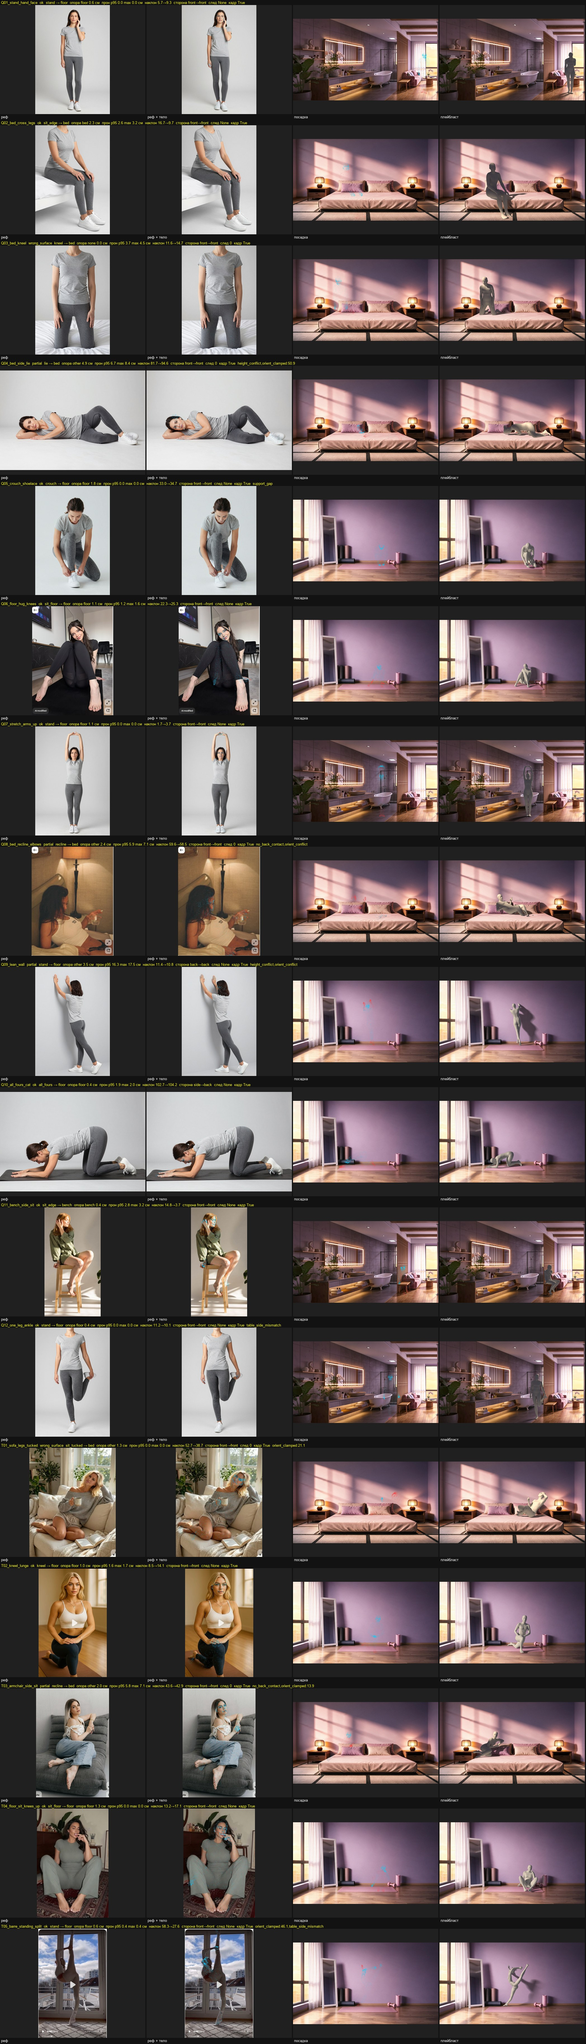
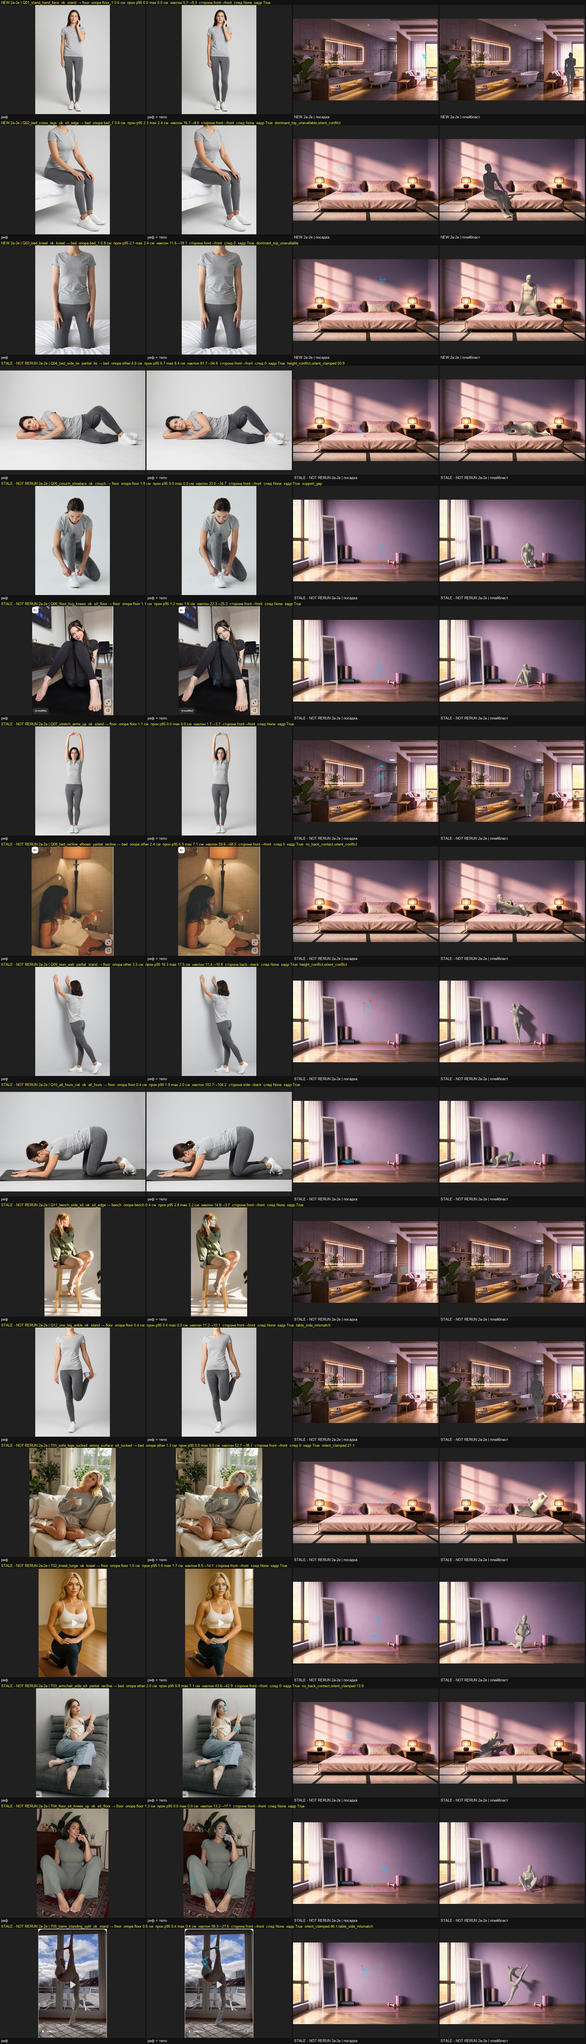
3D-A 09.11c: isolated prompt worker, Blender env, partial geometry evidence
17-pose runner stopped at 30 min: Q01-Q03 fresh ok, 14 explicitly stale. Real pack checks exposed missing httpx/Pillow env; fixed without installs, runtime still under verification.

diff --git a/tools/scene3d/test_pack_cli.py b/tools/scene3d/test_pack_cli.py
@@ -314,7 +314,7 @@ def test_real_step9_prompt_generator_without_table(tmp_path, monkeypatch):
     monkeypatch.setattr(pose_round, "prompts", lambda: pytest.fail("must not read the 17-pose table"))
     cfg["prompt_context_by_location"] = {"room": {"anchor": "the bed reaches her knees"}}
     fit = {"shot_spec": {"pose_class": "kneel", "target_object": "bed", "secondary_contacts": []}}
-    text = cli.prompt_for(Profile(), cfg, fit)
+    text = cli.prompt_direct(Profile(), cfg, fit)
     assert "She kneels" in text
     assert "<Video 1>" in text
     assert "\nThe lighting is preserved unchanged throughout.\n" in text
@@ -322,7 +322,27 @@ def test_real_step9_prompt_generator_without_table(tmp_path, monkeypatch):
     assert "studio" not in text.lower()
     assert "locked-off" in text
     with pytest.raises(ValueError, match="scale anchor missing"):
-        cli.prompt_for(Profile(), config(tmp_path), fit)
+        cli.prompt_direct(Profile(), config(tmp_path), fit)
+
+
+def test_prompt_subprocess_uses_isolated_farm_python(tmp_path, monkeypatch):
+    cfg = config(tmp_path)
+    def run(command, stage, **kwargs):
+        assert command[0] == cfg["python"]
+        assert command[1] == "-I"
+        assert "--prompt-worker" in command
+        request = cli.read_json(command[command.index("--request") + 1])
+        assert request["profile_data"]["loc_id"] == "room"
+        cli.save_json(command[command.index("--output") + 1], {"status": "ok", "h3_prompt": "existing-generator"})
+    monkeypatch.setattr(cli, "run_stage", run)
+    assert cli.prompt_for(Profile(), cfg, {"shot_spec": {}}) == "existing-generator"
+
+
+def test_real_isolated_prompt_roundtrip(tmp_path):
+    cfg = config(tmp_path)
+    cfg["prompt_context_by_location"] = {"room": {"anchor": "the bed reaches her knees"}}
+    fit = {"shot_spec": {"pose_class": "kneel", "target_object": "bed", "secondary_contacts": []}}
+    assert "She kneels" in cli.prompt_for(Profile(), cfg, fit)
 
 
 def test_main_error_json_replaces_stale_success(tmp_path):
@@ -353,7 +373,7 @@ def test_arbitrary_pose_pipeline_and_content_addressed_cache(tmp_path, monkeypat
     mannequin = tmp_path / "mannequin.blend"
     mannequin.write_bytes(b"fixture")
     cfg = config(tmp_path)
-    cfg.update(blender="blender-fixture", mannequin=str(mannequin))
+    cfg.update(blender="blender-fixture", mannequin=str(mannequin), blender_pkgs="Pillow-fixture")
     events = []
     profile = Profile()
     pf = SimpleNamespace(
@@ -389,6 +409,7 @@ def test_arbitrary_pose_pipeline_and_content_addressed_cache(tmp_path, monkeypat
             (out / "pose.ref.npz").write_bytes(b"mesh-fixture")
         else:
             assert command[0] == "blender-fixture"
+            assert kw['env']['FARM_BPY_PKGS'] == 'Pillow-fixture'
             assert "render_plate_scene.py" in str(command)
             out = Path(command[command.index("--out") + 1]) / "pose"
             out.mkdir(parents=True)

diff --git a/tools/scene3d/pack_cli.py b/tools/scene3d/pack_cli.py
@@ -297,6 +297,20 @@ def seed_for(profile, spec, config):
 
 
 def prompt_for(profile, config, fit):
+    """Keep step-9/httpx imports in the farm venv, never the geometry venv."""
+    import tempfile
+    with tempfile.TemporaryDirectory(prefix="3da-prompt-") as temp:
+        request_path, output_path = Path(temp) / "request.json", Path(temp) / "result.json"
+        save_json(request_path, {"config": config, "profile_data": profile.data, "fit": fit})
+        run_stage([config["python"], "-I", Path(__file__).resolve(), "place", "--request", request_path,
+                   "--output", output_path, "--prompt-worker"], "step9 prompt")
+        result = read_json(required_file(output_path, "step9 prompt result"))
+        if result.get("status") == "error":
+            raise StageError(result.get("error", "step9 prompt failed"), result.get("stderr_tail", ""))
+        return result["h3_prompt"]
+
+
+def prompt_direct(profile, config, fit):
     import table_round
     import pose_h3_v26
     context = dict(profile.data.get("prompt_context", {}))
@@ -433,6 +447,8 @@ def do_place(request, config):
     stage = time.monotonic()
     env = os.environ.copy()
     env.setdefault("SCENE3D_BLENDER_SITE", str(REPO / ".blender_site"))
+    if config.get("blender_pkgs"):
+        env["FARM_BPY_PKGS"] = config["blender_pkgs"]
     run_stage([config["blender"], "-b", "--python-exit-code", "1", "--python",
                HERE / "plate/render_plate_scene.py", "--", "--plate", plate_dir, "--spec", job / "render_spec.json",
                "--mannequin", mannequin, "--out", job / "render", "--label-pass", "--photo-emission", "2.5",
@@ -461,11 +477,17 @@ def main(argv=None):
     parser.add_argument("--output", required=True)
     parser.add_argument("--worker", action="store_true", help=argparse.SUPPRESS)
     parser.add_argument("--geometry-worker", action="store_true", help=argparse.SUPPRESS)
+    parser.add_argument("--prompt-worker", action="store_true", help=argparse.SUPPRESS)
     args = parser.parse_args(argv)
     try:
         request = read_json(args.request)
         config = config_for(request)
-        if args.geometry_worker or (args.worker and args.command == "location"):
+        if args.prompt_worker:
+            from types import SimpleNamespace
+            modules(config)
+            text = prompt_direct(SimpleNamespace(data=request["profile_data"]), config, request["fit"])
+            result = {"status": "ok", "h3_prompt": text}
+        elif args.geometry_worker or (args.worker and args.command == "location"):
             result = (do_location if args.command == "location" else do_place)(request, config)
         else:
             # Node -> farm Python -> geometry Python for place+refine. Never import

diff --git a/tools/scene3d/plate/test_manual_pack_verify.py b/tools/scene3d/plate/test_manual_pack_verify.py
@@ -1,0 +1,33 @@
+"""Split graph is optional verification, not server-pack installation evidence."""
+import json
+from pathlib import Path
+import sys
+import unittest
+from unittest.mock import patch
+
+sys.path.insert(0, str(Path(__file__).resolve().parent))
+import manual_pack_verify as m
+import test_pose_gate_v26c as gate_tests
+
+
+class SplitTests(unittest.TestCase):
+    def test_uses_pack_init_and_final_plate_composite(self):
+        recipe = gate_tests.GateTests().recipe()
+        with patch.object(m.r, 'load_json', return_value=recipe), patch.object(m.r, 'require_lint'):
+            graph = m.build({'h3_prompt': 'test prompt'}, 'Q04', None)
+        lat = next(n for n in graph.values() if n['class_type'] == 'H3LatentFromImage')
+        self.assertEqual(lat['inputs']['image'], ['pack_init', 0])
+        self.assertEqual(graph['composite']['inputs']['destination'], ['plate_scale', 0])
+        self.assertEqual(graph['save']['inputs']['images'], ['composite', 0])
+        self.assertEqual(graph['save_raw']['inputs']['images'], ['D1_select', 0])
+        self.assertNotIn('3DAPlacePose', [n['class_type'] for n in graph.values()])
+
+    def test_rejected_geometry_no_submission(self):
+        with patch.object(m.r, 'load_json', side_effect=[{'status': 'error'}, {}]), patch.object(m.r.ab, 'post') as post:
+            with self.assertRaisesRegex(RuntimeError, 'Geometry rejected'):
+                m.run('manifest', 'location', 'Q04', True)
+            post.assert_not_called()
+
+
+if __name__ == '__main__':
+    unittest.main()

diff --git a/tools/scene3d/plate/manual_pack_verify.py b/tools/scene3d/plate/manual_pack_verify.py
@@ -4,10 +4,8 @@ NOT an end-to-end test of server-installed 3DA nodes. Never runs for error or
 rejected geometry. One submission per shot, saved state prevents blind retries.
 """
 import argparse
-import copy
 import json
 from pathlib import Path
-import time
 
 import numpy as np
 from PIL import Image

diff --git a/tools/scene3d/plate/pose_gate_v26c.py b/tools/scene3d/plate/pose_gate_v26c.py
@@ -7,7 +7,6 @@ requires --execute-gpu; any failed gate blocks every later stage.
 import argparse
 import copy
 import json
-import time
 from pathlib import Path
 
 import numpy as np

diff --git a/docs/STATUS.md b/docs/STATUS.md
@@ -18,7 +18,7 @@
 | WS-09 | ✅ готово (12.10) | `workflows/manual_frame@1.ui.json` (маска MaskEditor → кроп → H3 img2img / H3 ref-edit / Z-image → ColorMatch → вклейка только по маске с растушёвкой внутрь; рука ARM и RefMod вручную) и `manual_video@1.ui.json` (движок video_h3_loop@1, рука наружу, RefMod, «фон по маске» на 1344x768); + `*.api.json`; сборщик `tools/build_manual.py`, `wfkit.to_api2`; итоги и цифры — `docs/audit/WS-09_manual.md`. Кадр: 5 SFW-кадров на comfy.next-genium.com — вне маски 0 отличающихся пикселей, шов не виден. Видео: под RTX PRO 6000, Sitting-8, 5 с, петля, face_pass ВЫКЛ — bg_lock ВКЛ: фон вне маски отличается от 1-го кадра в среднем на 0.19–0.25/255 (макс. 6, шум кодека) против 1.7–2.3 (макс. до 102) при ВЫКЛ, движение в маске одинаковое, шва нет; 285 с с загрузкой моделей, 134 с повтор | WS-10: нода «шот по ID» в ng-farm; на поде доставить для manual_frame Inpaint-CropAndStitch, h3_img2img_latent, Z-image (z_image_turbo_bf16, Stacy_v1_z-image LoRA, qwen_3_4b, ae); WS-07: RefMod | — |
 | WS-10 | 🟡 23.10 10:30: воркфлоу для людей farm_auto@1 (таблица + LLM, фото/видео блоки, переключатель, ZIP) и farm_manual@1 (маска, отдельный проход лица видео), модели ref2v/10Eros/PinkCherry; ноды «Шот из таблицы», кадр из папки, ZIP; колонка «Картинка локации»; проход лица видео без LoRA; тест на поде | 22–23.10 под RTX PRO 6000: pod_setup + фиксы (WS-04 return 99.2 %, MiVOLO hf_transfer, SAM3 model_name, libEGL, VRAM-гейт 0.995, QA_TECH → needs_human, линтер sunset). Решения пользователя 23.10: кадр без LoRA и листа персонажа — только RefMod; 3 Мп; наряд нет → базовый (серый топ + белые шорты); локация — location sheet зоны (ракурс выбирает H3). Тест 4 сцены Стейси: A мод зоны Apply / 2 RefModTextEncode / 3 location sheet → выбран 3 (2 ≈ A); стоящая крупно → строка доли кадра. Сделано: генераторы TE_refmod/LS_refmod (ws07_graphs), движок `workflows/frame_ls@1` (+ `tools/build_frame_ls.py`, проход лица H3 + мод лица 1 Мп d 0.85), сборщик: шаблоны frame_ls_v1 / face_frame_ls_v1, scale_line_ls, base_outfit_en, framing_share; library: location_sheet (refs/zones/<зона>/sheet.*), имена модов farm/<id>_face|body, farm/out_<наряд>; `tools/farm_prepare_refs.py`; `tools/farm_review.py`; черновик profiles/sfw_base.yaml (frame_h3@1 — заменить на frame_ls@1). Образцы: таблица v2 + location sheet + моды лица/тела — `C:\stacy-lora\_claude\farm_samples\` | под: Start → bootstrap → `git checkout ws10-pod-1022` → pod_setup → refs/ по соглашению → farm_prepare_refs → профиль на frame_ls@1 → sheet_schema v2 (зоны, моды) → 4 шота Стейси + 4 Саманты через ферму (кадр+видео) → 10 строк каждой таблицы | листы ракурсов зон (ванная Стейси, оранжерея Саманты — по 2 ракурса), виды сзади нарядов Саманты; таблицы пользователя по образцу v2 |
 | WS-10b | 🟡 25.10: готово, кроме проверки анти-дрожи лица; 23.10 14:50: воркфлоу `stacy_facepass@1` — проход лица готового видео с LoRA Стейси | `tools/build_stacy_facepass.py` → `workflows/stacy_facepass@1.api.json` (43 ноды; движок — ветка face pass из `video_h3_loop@1.ui.json`: fl2va + turbo fl2v 4 шага + `stacy_h3_face_v1_000001800` 1.0, мод `farm/stacy_face` через RefModApply, трекинг/кроп, flow-lock, сглаживание, вклейка, петля; RTX VSR — включатель). Ноды ComfyUI-Farm: `NGFarmPanelFacepass` (один пульт: загрузка видео кнопкой или папка/файл + index; папка — один Queue ставит все видео; ручки с подсказками) и `NGFarmFinalizeVideo` (итог `output/stacy_facepass/<имя>_facepass_stacy.mp4`, без счётчика и превью). Готовой ноды «видео из папки по номеру с именем» нет (KJ LoadVideosFromFolder склеивает все в один батч без имён, core DataSet — без имён). UI: `farmBuild('stacy_facepass@1')` (ветка `isFP` в `tools/farm_wf_ui.js`), гайд `docs/guides/stacy_facepass.md`. Тест на поде (RTX PRO 6000, 1920×1080 24 к/с, 171 кадр): SIT-02 и LIE-04 — лицо чище (артефакты глаз/носа исходника ушли), сходство со Стейси, дрожь как у исходника (межкадровое отличие в зоне лица 4.79→4.82, 5.29→5.32), вне лица среднее отличие 1.8/255 (перекодирование); 271 с с загрузкой моделей, 116 с повтор. **A/B 23.10 вечер (SIT-02, AuraFace к рефам Стейси, 18 кадров):** исходник 0.27; AUTO 0.34/LoRA 1 — 0.63; 0.45/LoRA 1.2 — 0.67; 0.55/LoRA 1.2 — гримасы (морщит лоб); **0.55/LoRA 0.75 — 0.67, мин 0.59, мимика цела → новый дефолт**; 0.65/LoRA 0.75 — мимика меняется; только мод (без LoRA) 0.55/0.65 — 0.64; кроп 1.8 + LoRA 1.4 — 0.55; 8 шагов ≈ 4 шага. Дрожь лица у всех ≈ исходник (3.7–3.9). Мод лица — максимум 1.0. Новый под 23.10: лимит ОЗУ контейнера 94 ГБ → OOM-kill ComfyUI; `pod_setup.sh` при лимите < 200 ГБ запускает с `--disable-pinned-memory --cache-lru 10`. **UI 23.10 вечер:** пульт не создавался во фронтенде (`Widget "upload" not found` — комбо загрузки должно называться `video`, папка — `folder`); выход-список модов и отдельный StacyPanel убраны (моды и STACY_SETTINGS отдаёт пульт). UI-воркфлоу собран в headless Chromium на поде (playwright, `/workspace/venv_pw`, `farm_in/pw_build.py` → farmBuild) и сохранён в Workflows пода `stacy_facepass@1.json`; сгенерированный им промпт прогнан: успех, 271 с. **23.10 поздно:** итог — жёсткая ссылка с точным именем, файл VHS в `stacy_facepass/_vhs/` (кнопка скачивания в очереди ComfyUI работает); `workflows/video_deflicker@1` (`tools/build_video_deflicker.py`, StacyTemporalStabilize по всему кадру; SIT-02: дрожь фона 0.62 → 0.35, резкость 180 → 175, 47 с); анти-дрожь лица в facepass — StacyTemporalStabilize по кропам до вклейки (`face_stab`, `face_stab_threshold`), **не проверена**, по умолчанию 0. Найден и исправлен баг farm_manual: проход лица видео сэмплировал ref2va генерации вместо fl2va+turbo (bypass StacyModelByMode по `generate_model`), 182 → 175 нод | проверить анти-дрожь лица (STD-01: выкл / порог 8 / 12, дрожь лица + мимика) → дефолт; пересобрать UI-воркфлоу (headless `farm_in/pw_build.py` на поде или farmBuild в студии); на студии — обновить ComfyUI-Farm (делает пользователь) и проверить facepass с модом `ss340/face_n10` | Chrome ассистента не открывает ComfyUI пода (8188) → UI-json не собран, отдан API json |
-| S3D | 🔴 09.11b: «ComfyUI-пак v1 для ручных тестов» — STOP обязательного G0, пак не создан | `docs/experiments/3DA_COMFY_PACK_2026-11-09b.md`, `3DA_COMFY_GATE_2026-11-09b.json`, `img/gate_G0.jpg`; серверный always_encode+mask подтверждён; Q04 G0 SSIM0.929524<0.98, 47.943с, cell16px (1344/84); G1 не запускался, тег не ставился. Исходные96 OK прошлой сессии не переподтверждены:8 import errors в .venv (SciPy/NumPy); локальная SciPy приведена к1.14.1, после STOP без повторов | решение координатора по FAIL G0; до него никаких G1/геометрии/пака/end-to-end и повторов гейта | G0 не сохраняет RGB init до0.98; причина не установлена. 2a–2e,17 reruns,Q04/Q11 end-to-end,workflow,README/установка не выполнялись |
+| S3D | 🟡 09.11c: «ComfyUI-пак v1 для ручных тестов» — гейт PASS, пак/CLI/UI созданы, runtime частично | `docs/experiments/3DA_COMFY_PACK_2026-11-09c.md`, gate/geometry09c JSON,4 gate jpg,poses_v26.jpg (3NEW/14STALE); R.929515/G0.929515/G1outside.924494≥R−.01, composite.999985/0px changed,cell16; tagv0.2.0→38ade3f pushed. NumPy1.26.4/SciPy1.14.1 pinned; исход96OK доGPU, актуальные158OK отдельными наборами. Геометрия2a/b/d/e+explicit footprint2c; runner17 timeout1800:Q01–03ok,Q03исправлен,14STALE. Пак ПК ComfyUI-next/custom_nodes/ComfyUI-3DA importOK; workflow3DA_manual_v1 UI/API,README; LocationQ04/Q11OK | завершить реальные PlaceQ04/Q11 с600s лимитом, после них H3/core split при допустимой геометрии; server pack e2e только после установки | требуется ответ пользователя на установку пака/Blender на сервер; D4legacy без полного следа stop2c, новые комнаты без seeds/scale metadata не auto;14/17 не перепрогнаны; первый Placeerror isolated httpx исправлен переносом prompt в farm env |
 
 ## Решения (журнал)
 - 2026-11-09 · 3D-A, координатор09c: CONTRACTS v0.15 — R VAE-only baseline, G0/G1≥R−.01; финальная core-вклейка в плиту, SSIM вне карты≥.995; cell16px. Гейт passed, тег v0.2.0→38ade3f pushed. Геометрия2a–2e по09b, legacy D4 без полного следа явно stop2c; без архитектурных замен.

diff --git a/comfyui/ComfyUI-3DA/README_RU.md b/comfyui/ComfyUI-3DA/README_RU.md
@@ -5,7 +5,7 @@
 ## Установка и запуск
 1. Клонировать `ComfyUI-Farm`, скопировать эту папку в `ComfyUI/custom_nodes/ComfyUI-3DA`; перезапустить ComfyUI. Пак вложен в репозиторий: установка всего farm-repo в Manager **не** регистрирует автоматически вложенные ноды.
 2. В отдельном farm venv поставить корневые requirements (NumPy1.26.4/SciPy1.14.1); существующий geometry env должен содержать ComfyUI с SAM3DBody/MoGe и уже скачанные модели. В env ComfyUI тяжёлые зависимости пака **не ставятся**. Blender устанавливается отдельно.
-3. Исправить `config.yaml`: `repo`, `python` farm venv, `geometry_python`, `comfy` (код и модели), `farm_root` (состояние), `blender`, `mannequin` (.blend). `cell_px:16` не менять. `location_asset_dirs` связывает старый профиль с отдельно лежащими `plate.json/plate_mesh.obj/plate_rgb.png/depth_loc.png`; без него они должны быть рядом с profile.json. Секреты в config не писать.
+3. Исправить `config.yaml`: `repo`, `python` farm venv, `geometry_python`, `comfy` (код и модели), `farm_root` (состояние), `blender`, `mannequin` (.blend), `blender_pkgs` (существующие Pillow-пакеты Blender; YAML — отдельный .blender_site). `cell_px:16` не менять. `location_asset_dirs` связывает старый профиль с отдельно лежащими `plate.json/plate_mesh.obj/plate_rgb.png/depth_loc.png`; без него они должны быть рядом с profile.json. Секреты в config не писать.
 4. Открыть `workflows/3DA_manual_v1.json`: выбрать плиту, SFW-реф персонажа и позы; настроить Location/Place Pose, Queue. H3 на малой локальной GPU не запускать. На сервере нужны пак, отдельный geometry env, Blender и доступные абсолютные пути; перенос этих компонентов требует согласования.
 
 ## Поля и результаты
@@ -20,7 +20,7 @@
 | partial | Проверить флаги контакта/спинки/p95; это не полная геометрическая приёмка |
 | no_target / wrong_surface | Проверить тип, instance_hint, якорь/след объекта |
 | contact_fail / out_of_frame | Исправить профиль/выбор позы; не ослаблять пороги |
-| error | Последние30 строк stderr в status; проверить пути, модели, metadata; таймаут10мин на вызов |
+| error | Последние30 строк stderr в status; проверить пути, модели, metadata; таймаут10мин на вызов с остановкой дерева worker/geometry/Blender |
 
 При error сами ноды не роняют граф: выходы-заглушки и пустой промпт **не являются результатом**. Не отправлять такой граф на H3 повторно без устранения причины. SAM кэш — SHA256 PNG позы; смена PNG меняет кэш. Геометрия профиля сохраняет свой raster, H3-карты1344×768. Рост1.62 взят из рефа; VLM и Character Prep отсутствуют. Установка/полный end-to-end и ограничения конкретного запуска — в `docs/experiments/3DA_COMFY_PACK_2026-11-09c.md`.
 
